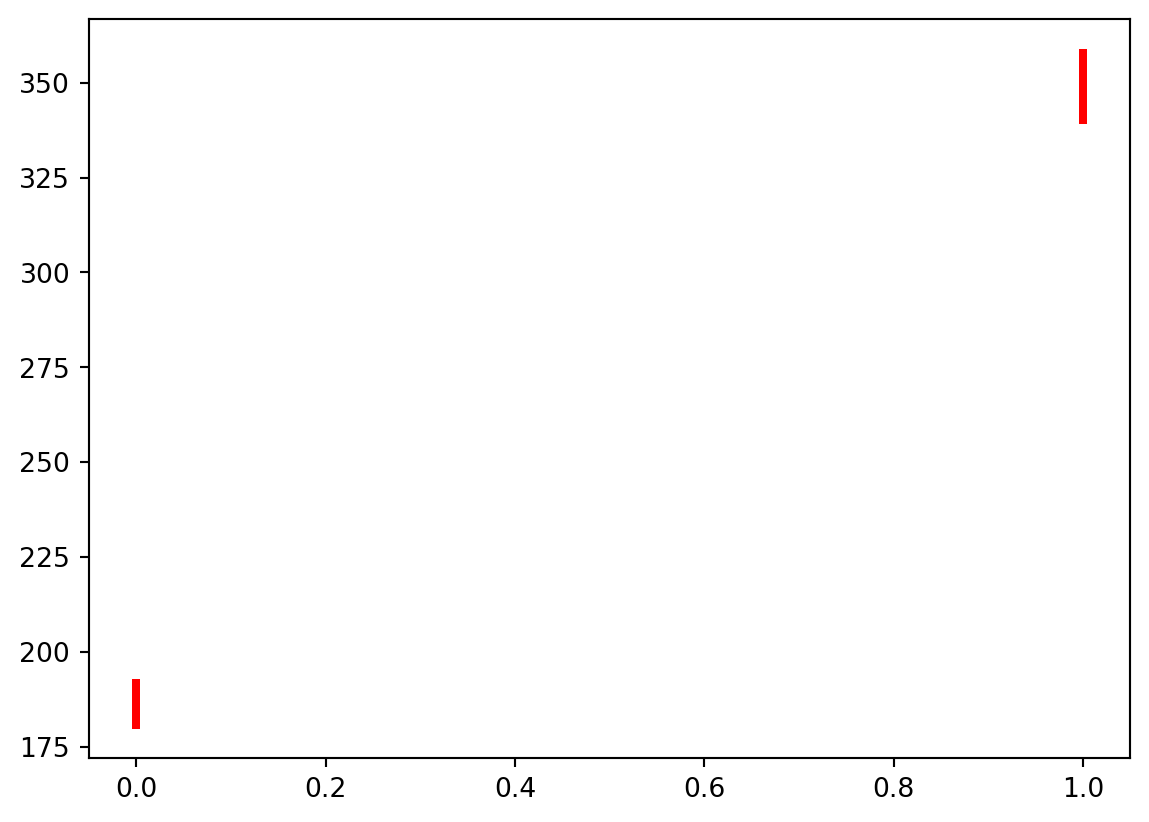
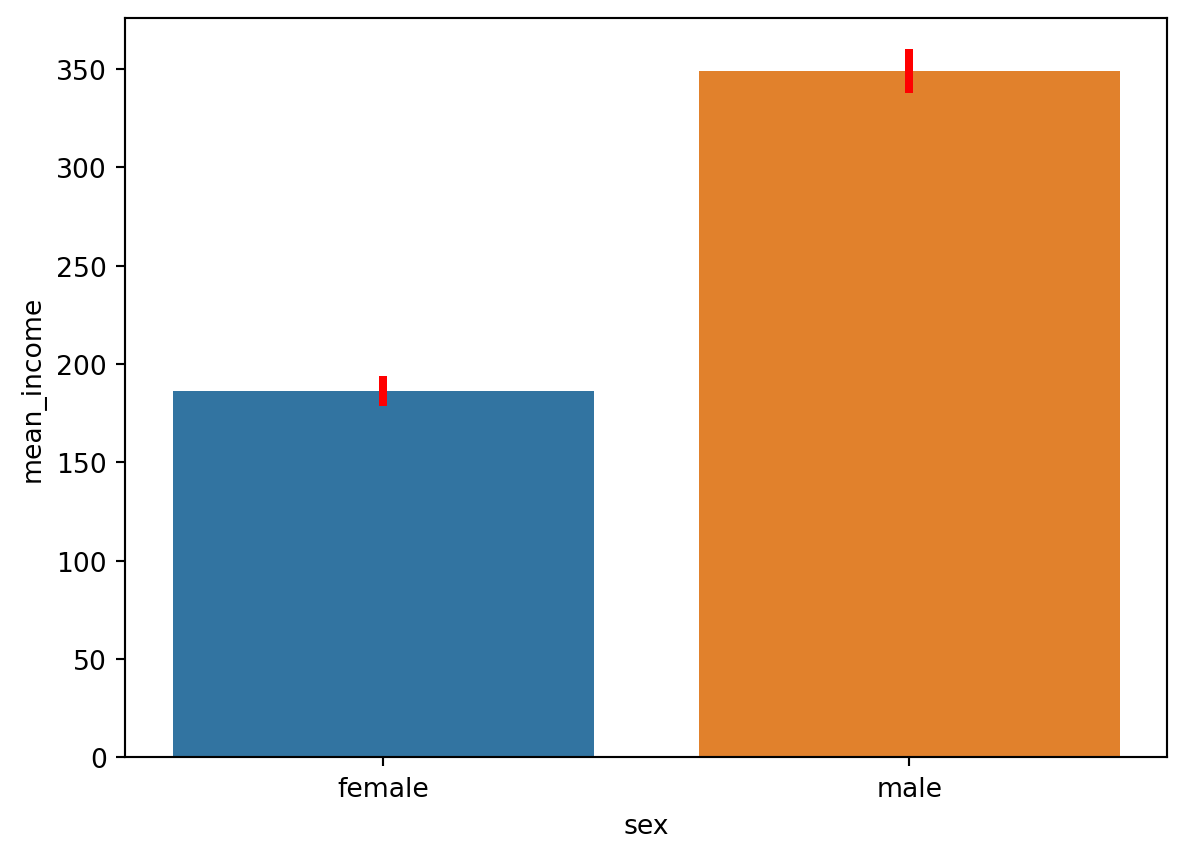
homework6

diff --git a/docs/posts/hw6/index.html b/docs/posts/hw6/index.html
@@ -206,7 +206,7 @@ pre > code.sourceCode > span > a:first-child::before { text-decoration: underlin
 <p>위 아래 수직 막대기로 표시</p>
 <section id="패키지-불러오기" class="level4">
 <h4 class="anchored" data-anchor-id="패키지-불러오기">패키지 불러오기</h4>
-<div id="c1a444f0" class="cell" data-execution_count="1">
+<div id="5c83838f" class="cell" data-execution_count="1">
 <div class="sourceCode cell-code" id="cb1"><pre class="sourceCode python code-with-copy"><code class="sourceCode python"><span id="cb1-1"><a href="#cb1-1" aria-hidden="true" tabindex="-1"></a><span class="im">import</span> pandas <span class="im">as</span> pd</span>
 <span id="cb1-2"><a href="#cb1-2" aria-hidden="true" tabindex="-1"></a><span class="im">import</span> numpy <span class="im">as</span> np</span>
 <span id="cb1-3"><a href="#cb1-3" aria-hidden="true" tabindex="-1"></a><span class="im">import</span> seaborn <span class="im">as</span> sns</span>
@@ -216,14 +216,14 @@ pre > code.sourceCode > span > a:first-child::before { text-decoration: underlin
 </section>
 <section id="데이터-불러오고-복사본-만들기" class="level4">
 <h4 class="anchored" data-anchor-id="데이터-불러오고-복사본-만들기">데이터 불러오고 복사본 만들기</h4>
-<div id="c69e506d" class="cell" data-execution_count="2">
+<div id="4f117104" class="cell" data-execution_count="2">
 <div class="sourceCode cell-code" id="cb2"><pre class="sourceCode python code-with-copy"><code class="sourceCode python"><span id="cb2-1"><a href="#cb2-1" aria-hidden="true" tabindex="-1"></a><span class="co"># !pip install pyreadstat</span></span>
 <span id="cb2-2"><a href="#cb2-2" aria-hidden="true" tabindex="-1"></a>raw_welfare <span class="op">=</span> pd.read_spss(<span class="st">"C:/Users/USER/Documents/LS빅데이터스쿨/lsbigdata-project1/data/Koweps_hpwc14_2019_beta2.sav"</span>)</span>
 <span id="cb2-3"><a href="#cb2-3" aria-hidden="true" tabindex="-1"></a>raw_welfare</span>
 <span id="cb2-4"><a href="#cb2-4" aria-hidden="true" tabindex="-1"></a></span>
 <span id="cb2-5"><a href="#cb2-5" aria-hidden="true" tabindex="-1"></a>welfare <span class="op">=</span> raw_welfare.copy()</span>
 <span id="cb2-6"><a href="#cb2-6" aria-hidden="true" tabindex="-1"></a>welfare.head()</span></code><button title="Copy to Clipboard" class="code-copy-button"><i class="bi"></i></button></pre></div>
-<div class="cell-output cell-output-display" data-execution_count="10">
+<div class="cell-output cell-output-display" data-execution_count="2">
 <div>
 
 
@@ -385,7 +385,7 @@ pre > code.sourceCode > span > a:first-child::before { text-decoration: underlin
 </section>
 <section id="변수명-변경하기" class="level4">
 <h4 class="anchored" data-anchor-id="변수명-변경하기">변수명 변경하기</h4>
-<div id="3a865b1a" class="cell" data-execution_count="3">
+<div id="d1d6c734" class="cell" data-execution_count="3">
 <div class="sourceCode cell-code" id="cb3"><pre class="sourceCode python code-with-copy"><code class="sourceCode python"><span id="cb3-1"><a href="#cb3-1" aria-hidden="true" tabindex="-1"></a>welfare <span class="op">=</span> welfare.rename(</span>
 <span id="cb3-2"><a href="#cb3-2" aria-hidden="true" tabindex="-1"></a>    columns <span class="op">=</span> {</span>
 <span id="cb3-3"><a href="#cb3-3" aria-hidden="true" tabindex="-1"></a>        <span class="st">"h14_g3"</span> : <span class="st">"sex"</span>,</span>
@@ -405,7 +405,7 @@ pre > code.sourceCode > span > a:first-child::before { text-decoration: underlin
 <span id="cb3-17"><a href="#cb3-17" aria-hidden="true" tabindex="-1"></a><span class="co"># sex 칼럼 항목 male, female로 변경</span></span>
 <span id="cb3-18"><a href="#cb3-18" aria-hidden="true" tabindex="-1"></a>welfare[<span class="st">"sex"</span>] <span class="op">=</span> np.where(welfare[<span class="st">"sex"</span>] <span class="op">==</span> <span class="dv">1</span>, <span class="st">"male"</span>, <span class="st">"female"</span>)</span>
 <span id="cb3-19"><a href="#cb3-19" aria-hidden="true" tabindex="-1"></a>welfare[<span class="st">'sex'</span>].value_counts()</span></code><button title="Copy to Clipboard" class="code-copy-button"><i class="bi"></i></button></pre></div>
-<div class="cell-output cell-output-display" data-execution_count="11">
+<div class="cell-output cell-output-display" data-execution_count="3">
 <pre><code>sex
 female    7913
 male      6505
@@ -415,12 +415,12 @@ Name: count, dtype: int64</code></pre>
 </section>
 <section id="성별에-따른-평균-수입" class="level4">
 <h4 class="anchored" data-anchor-id="성별에-따른-평균-수입">성별에 따른 평균 수입</h4>
-<div id="f39ea99a" class="cell" data-execution_count="4">
+<div id="dffeaaaa" class="cell" data-execution_count="4">
 <div class="sourceCode cell-code" id="cb5"><pre class="sourceCode python code-with-copy"><code class="sourceCode python"><span id="cb5-1"><a href="#cb5-1" aria-hidden="true" tabindex="-1"></a>sex_income <span class="op">=</span> welfare.dropna(subset <span class="op">=</span> <span class="st">"income"</span>) <span class="op">\</span></span>
 <span id="cb5-2"><a href="#cb5-2" aria-hidden="true" tabindex="-1"></a>                    .groupby(<span class="st">"sex"</span>, as_index <span class="op">=</span> <span class="va">False</span>) <span class="op">\</span></span>
 <span id="cb5-3"><a href="#cb5-3" aria-hidden="true" tabindex="-1"></a>                    .agg(mean_income <span class="op">=</span> (<span class="st">"income"</span>, <span class="st">"mean"</span>))</span>
 <span id="cb5-4"><a href="#cb5-4" aria-hidden="true" tabindex="-1"></a>sex_income</span></code><button title="Copy to Clipboard" class="code-copy-button"><i class="bi"></i></button></pre></div>
-<div class="cell-output cell-output-display" data-execution_count="12">
+<div class="cell-output cell-output-display" data-execution_count="4">
 <div>
 
 
@@ -452,7 +452,7 @@ Name: count, dtype: int64</code></pre>
 </section>
 <section id="그래프로-나타내기" class="level4">
 <h4 class="anchored" data-anchor-id="그래프로-나타내기">그래프로 나타내기</h4>
-<div id="2845c2cd" class="cell" data-execution_count="5">
+<div id="307992c2" class="cell" data-execution_count="5">
 <div class="sourceCode cell-code" id="cb6"><pre class="sourceCode python code-with-copy"><code class="sourceCode python"><span id="cb6-1"><a href="#cb6-1" aria-hidden="true" tabindex="-1"></a>sns.barplot(data <span class="op">=</span> sex_income, x <span class="op">=</span> <span class="st">"sex"</span>, y <span class="op">=</span> <span class="st">"mean_income"</span>,</span>
 <span id="cb6-2"><a href="#cb6-2" aria-hidden="true" tabindex="-1"></a>            hue <span class="op">=</span> <span class="st">"sex"</span>)</span>
 <span id="cb6-3"><a href="#cb6-3" aria-hidden="true" tabindex="-1"></a>plt.show()</span></code><button title="Copy to Clipboard" class="code-copy-button"><i class="bi"></i></button></pre></div>
@@ -467,14 +467,14 @@ Name: count, dtype: int64</code></pre>
 </section>
 <section id="신뢰구간을-설정하는데-필요한-모수-칼럼으로-추가하기" class="level4">
 <h4 class="anchored" data-anchor-id="신뢰구간을-설정하는데-필요한-모수-칼럼으로-추가하기">신뢰구간을 설정하는데 필요한 모수 칼럼으로 추가하기</h4>
-<div id="1be45b43" class="cell" data-execution_count="6">
+<div id="d95043d3" class="cell" data-execution_count="6">
 <div class="sourceCode cell-code" id="cb7"><pre class="sourceCode python code-with-copy"><code class="sourceCode python"><span id="cb7-1"><a href="#cb7-1" aria-hidden="true" tabindex="-1"></a>sex_income <span class="op">=</span> welfare.dropna(subset<span class="op">=</span><span class="st">"income"</span>) <span class="op">\</span></span>
 <span id="cb7-2"><a href="#cb7-2" aria-hidden="true" tabindex="-1"></a>                    .groupby(<span class="st">"sex"</span>, as_index <span class="op">=</span> <span class="va">False</span>) <span class="op">\</span></span>
 <span id="cb7-3"><a href="#cb7-3" aria-hidden="true" tabindex="-1"></a>                    .agg(mean_income <span class="op">=</span> (<span class="st">"income"</span>,<span class="st">"mean"</span>),</span>
 <span id="cb7-4"><a href="#cb7-4" aria-hidden="true" tabindex="-1"></a>                    std_income <span class="op">=</span> (<span class="st">"income"</span>,<span class="st">"std"</span>),</span>
 <span id="cb7-5"><a href="#cb7-5" aria-hidden="true" tabindex="-1"></a>                    n <span class="op">=</span> (<span class="st">"sex"</span>,<span class="st">"count"</span>))</span>
 <span id="cb7-6"><a href="#cb7-6" aria-hidden="true" tabindex="-1"></a>sex_income</span></code><button title="Copy to Clipboard" class="code-copy-button"><i class="bi"></i></button></pre></div>
-<div class="cell-output cell-output-display" data-execution_count="14">
+<div class="cell-output cell-output-display" data-execution_count="6">
 <div>
 
 
@@ -512,35 +512,58 @@ Name: count, dtype: int64</code></pre>
 </section>
 <section id="성별에-따른-95-신뢰구간-구하기" class="level4">
 <h4 class="anchored" data-anchor-id="성별에-따른-95-신뢰구간-구하기">성별에 따른 95% 신뢰구간 구하기</h4>
-<div id="37da1fb9" class="cell" data-execution_count="7">
+<div id="d12e4425" class="cell" data-execution_count="7">
 <div class="sourceCode cell-code" id="cb8"><pre class="sourceCode python code-with-copy"><code class="sourceCode python"><span id="cb8-1"><a href="#cb8-1" aria-hidden="true" tabindex="-1"></a>u_ci <span class="op">=</span> norm.ppf(<span class="fl">0.975</span>, sex_income[<span class="st">"mean_income"</span>],</span>
 <span id="cb8-2"><a href="#cb8-2" aria-hidden="true" tabindex="-1"></a>            sex_income[<span class="st">"std_income"</span>] <span class="op">/</span> np.sqrt(sex_income[<span class="st">"n"</span>]))</span>
 <span id="cb8-3"><a href="#cb8-3" aria-hidden="true" tabindex="-1"></a>            </span>
 <span id="cb8-4"><a href="#cb8-4" aria-hidden="true" tabindex="-1"></a>d_ci <span class="op">=</span> norm.ppf(<span class="fl">0.025</span>, sex_income[<span class="st">"mean_income"</span>],</span>
 <span id="cb8-5"><a href="#cb8-5" aria-hidden="true" tabindex="-1"></a>            sex_income[<span class="st">"std_income"</span>] <span class="op">/</span> np.sqrt(sex_income[<span class="st">"n"</span>]))</span>
-<span id="cb8-6"><a href="#cb8-6" aria-hidden="true" tabindex="-1"></a>u_ci</span>
-<span id="cb8-7"><a href="#cb8-7" aria-hidden="true" tabindex="-1"></a>d_ci</span></code><button title="Copy to Clipboard" class="code-copy-button"><i class="bi"></i></button></pre></div>
-<div class="cell-output cell-output-display" data-execution_count="15">
-<pre><code>array([180.83045468, 340.1125923 ])</code></pre>
+<span id="cb8-6"><a href="#cb8-6" aria-hidden="true" tabindex="-1"></a>        </span>
+<span id="cb8-7"><a href="#cb8-7" aria-hidden="true" tabindex="-1"></a>pd.DataFrame([u_ci, d_ci])</span></code><button title="Copy to Clipboard" class="code-copy-button"><i class="bi"></i></button></pre></div>
+<div class="cell-output cell-output-display" data-execution_count="7">
+<div>
+
+
+<table class="dataframe caption-top table table-sm table-striped small" data-quarto-postprocess="true" data-border="1">
+<thead>
+<tr class="header">
+<th data-quarto-table-cell-role="th"></th>
+<th data-quarto-table-cell-role="th">0</th>
+<th data-quarto-table-cell-role="th">1</th>
+</tr>
+</thead>
+<tbody>
+<tr class="odd">
+<td data-quarto-table-cell-role="th">0</td>
+<td>191.755737</td>
+<td>357.962550</td>
+</tr>
+<tr class="even">
+<td data-quarto-table-cell-role="th">1</td>
+<td>180.830455</td>
+<td>340.112592</td>
+</tr>
+</tbody>
+</table>
+
+</div>
 </div>
 </div>
 </section>
 <section id="신뢰구간-시각화-하기" class="level4">
 <h4 class="anchored" data-anchor-id="신뢰구간-시각화-하기">신뢰구간 시각화 하기</h4>
-<div id="84d83ba4" class="cell" data-execution_count="8">
-<div class="sourceCode cell-code" id="cb10"><pre class="sourceCode python code-with-copy"><code class="sourceCode python"><span id="cb10-1"><a href="#cb10-1" aria-hidden="true" tabindex="-1"></a>plt.plot([<span class="dv">0</span>,<span class="dv">0</span>], [u_ci[<span class="dv">0</span>],d_ci[<span class="dv">0</span>]], color <span class="op">=</span> <span class="st">"red"</span>, linewidth <span class="op">=</span> <span class="dv">3</span>)</span>
-<span id="cb10-2"><a href="#cb10-2" aria-hidden="true" tabindex="-1"></a>plt.plot([<span class="dv">1</span>,<span class="dv">1</span>], [u_ci[<span class="dv">1</span>],d_ci[<span class="dv">1</span>]], color <span class="op">=</span> <span class="st">"red"</span>, linewidth <span class="op">=</span> <span class="dv">3</span>)</span>
-<span id="cb10-3"><a href="#cb10-3" aria-hidden="true" tabindex="-1"></a>plt.show()</span>
-<span id="cb10-4"><a href="#cb10-4" aria-hidden="true" tabindex="-1"></a>plt.clf()</span></code><button title="Copy to Clipboard" class="code-copy-button"><i class="bi"></i></button></pre></div>
+<div id="3193f47f" class="cell" data-execution_count="8">
+<div class="sourceCode cell-code" id="cb9"><pre class="sourceCode python code-with-copy"><code class="sourceCode python"><span id="cb9-1"><a href="#cb9-1" aria-hidden="true" tabindex="-1"></a>sns.barplot(data <span class="op">=</span> sex_income, x <span class="op">=</span> <span class="st">"sex"</span>, y <span class="op">=</span> <span class="st">"mean_income"</span>,</span>
+<span id="cb9-2"><a href="#cb9-2" aria-hidden="true" tabindex="-1"></a>            hue <span class="op">=</span> <span class="st">"sex"</span>)</span>
+<span id="cb9-3"><a href="#cb9-3" aria-hidden="true" tabindex="-1"></a>plt.plot([<span class="dv">0</span>,<span class="dv">0</span>], [u_ci[<span class="dv">0</span>],d_ci[<span class="dv">0</span>]], color <span class="op">=</span> <span class="st">"red"</span>, linewidth <span class="op">=</span> <span class="dv">3</span>)</span>
+<span id="cb9-4"><a href="#cb9-4" aria-hidden="true" tabindex="-1"></a>plt.plot([<span class="dv">1</span>,<span class="dv">1</span>], [u_ci[<span class="dv">1</span>],d_ci[<span class="dv">1</span>]], color <span class="op">=</span> <span class="st">"red"</span>, linewidth <span class="op">=</span> <span class="dv">3</span>)</span>
+<span id="cb9-5"><a href="#cb9-5" aria-hidden="true" tabindex="-1"></a>plt.show()</span></code><button title="Copy to Clipboard" class="code-copy-button"><i class="bi"></i></button></pre></div>
 <div class="cell-output cell-output-display">
 <div>
 <figure class="figure">
-<p><img src="index_files/figure-html/cell-9-output-1.png" width="575" height="411" class="figure-img"></p>
+<p><img src="index_files/figure-html/cell-9-output-1.png" width="593" height="429" class="figure-img"></p>
 </figure>
 </div>
-</div>
-<div class="cell-output cell-output-display">
-<pre><code>&lt;Figure size 672x480 with 0 Axes&gt;</code></pre>
 </div>
 </div>
 

diff --git a/docs/blog.html b/docs/blog.html
@@ -202,7 +202,7 @@ window.Quarto = {
 
 <div class="quarto-listing quarto-listing-container-default" id="listing-listing">
 <div class="list quarto-listing-default">
-<div class="quarto-post image-right" data-index="0" data-categories="bigdata" data-listing-date-sort="1722265200000" data-listing-file-modified-sort="1722357548918" data-listing-date-modified-sort="NaN" data-listing-reading-time-sort="3" data-listing-word-count-sort="407">
+<div class="quarto-post image-right" data-index="0" data-categories="bigdata" data-listing-date-sort="1722265200000" data-listing-file-modified-sort="1722358554863" data-listing-date-modified-sort="NaN" data-listing-reading-time-sort="3" data-listing-word-count-sort="438">
 <div class="thumbnail">
 <p><a href="./posts/hw6/index.html" class="no-external"></a></p><a href="./posts/hw6/index.html" class="no-external">
 <p class="card-img-top"><img src="posts\hw6\index_files\figure-html\cell-6-output-1.png"  class="thumbnail-image card-img"/></p>
